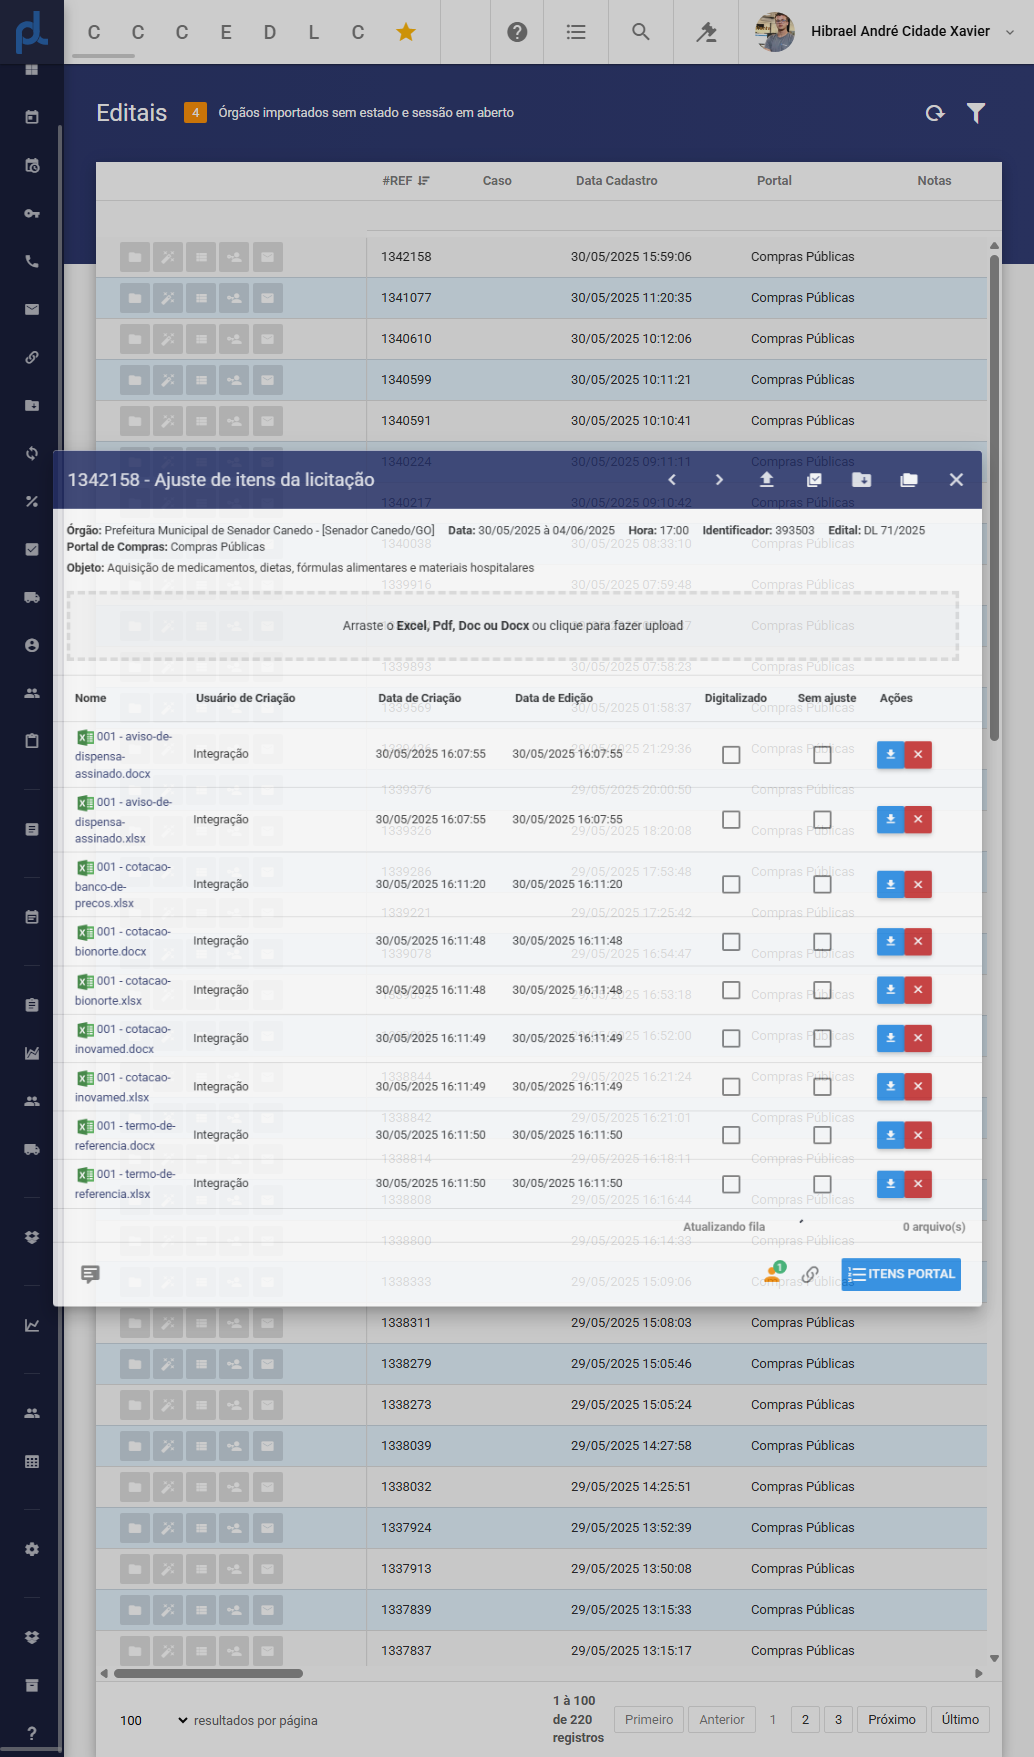
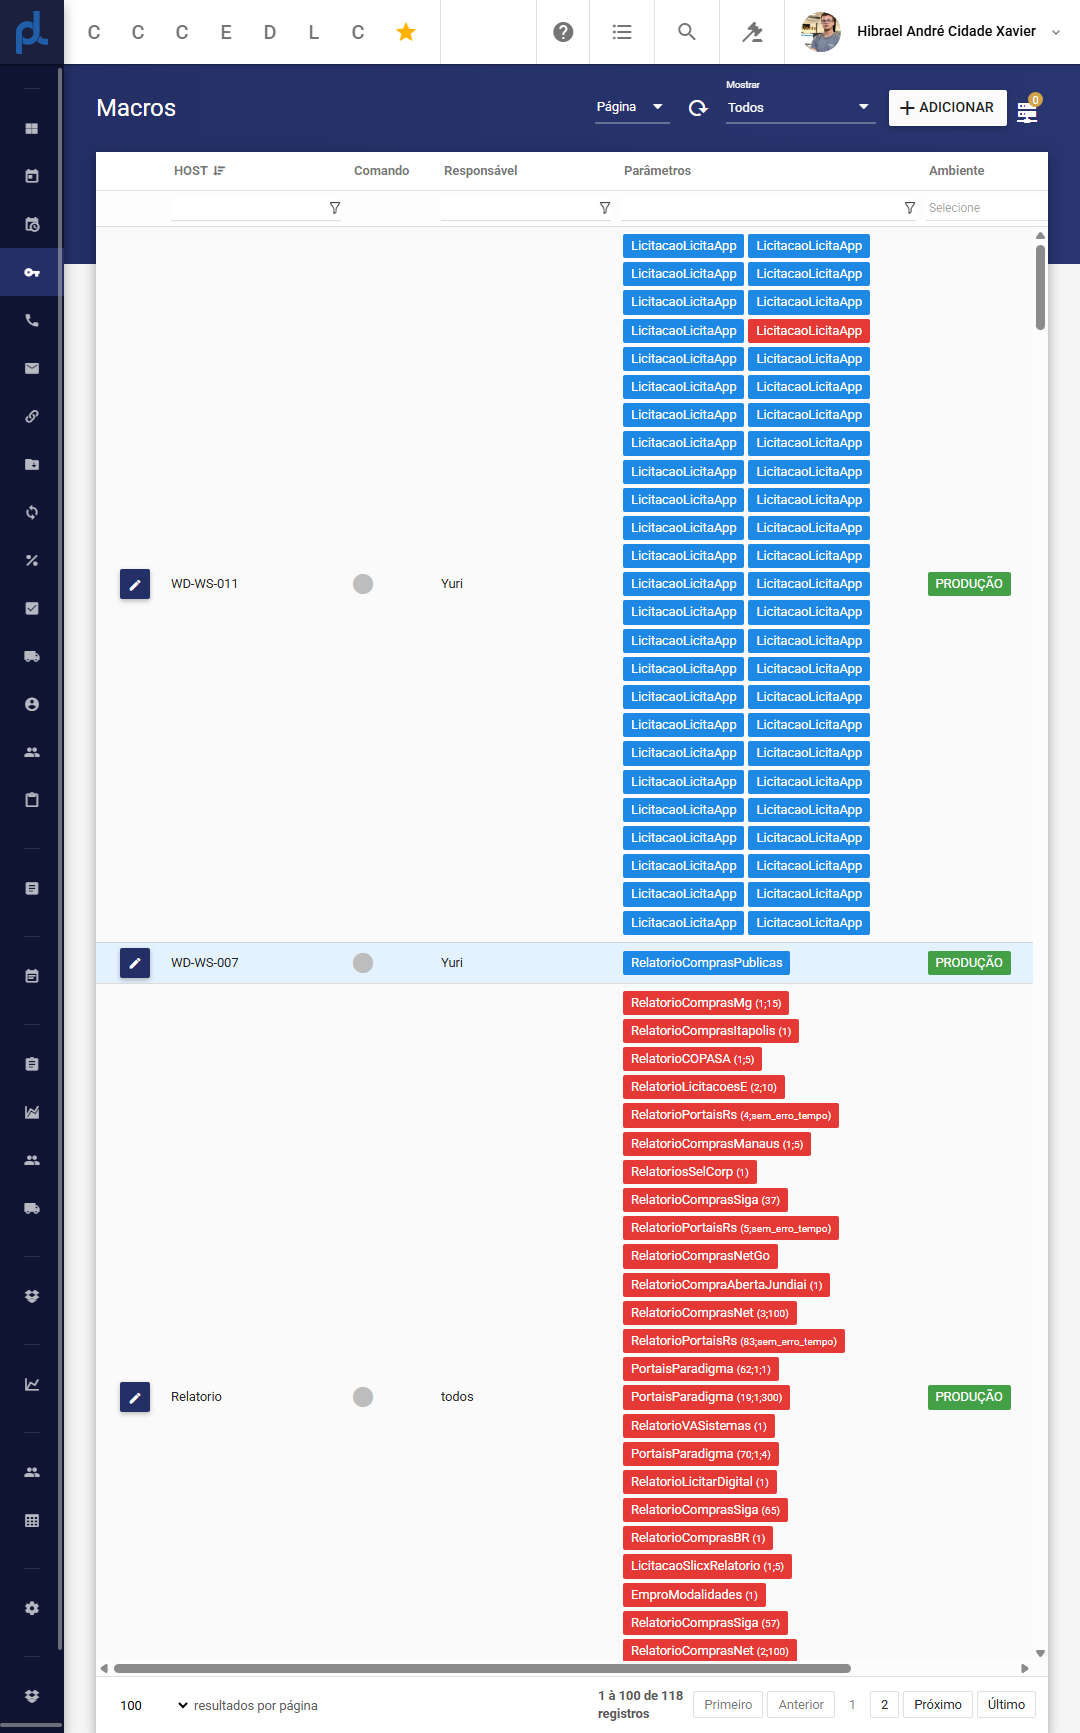
Finalização do SeleniumBot e exclusão de alguns projetos desnecessários

diff --git a/Seleniumbot.py b/Seleniumbot.py
@@ -84,7 +84,7 @@ def aguardar_e_clicar_no_icone(timeout=60):
 # Loop principal
 while True:
     pausado.wait()  # Espera estar no estado 'retomado'
-    print(f"\n[LOOP] Iniciando novo ciclo...")
+    print(f"\n Iniciando novo ciclo...")
 
     if not aguardar_e_clicar_no_icone():
         break
